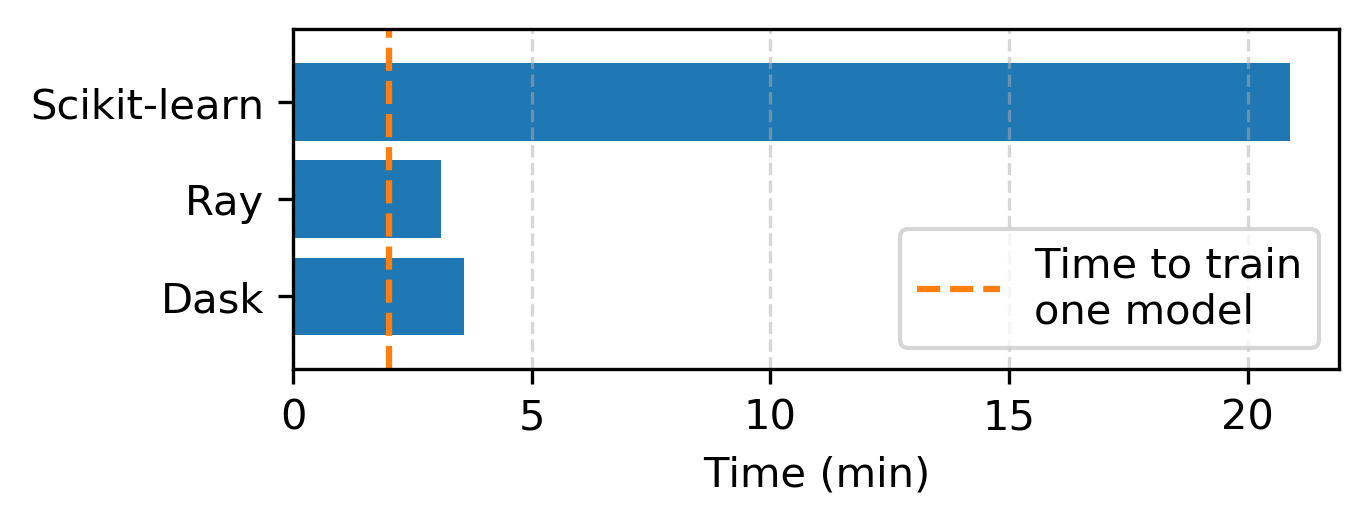
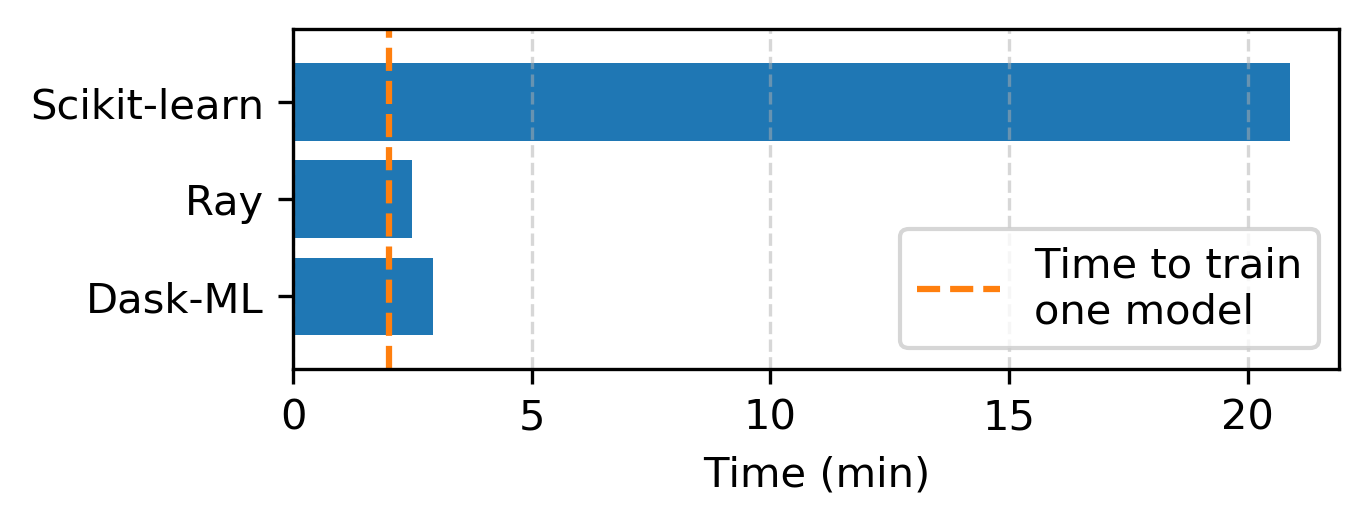
Rerun benchmark and edits

Changed region(s): [[0.0614, 0.5181, 0.1841, 0.6095], [0.2761, 0.3048, 0.3375, 0.4571], [0.3068, 0.4876, 0.3375, 0.64]]

diff --git a/_posts/2020-07-12-ray-tune.md b/_posts/2020-07-12-ray-tune.md
@@ -116,10 +116,10 @@ in a Scikit-Learn interface.*
 
 *Dask-ML and Ray both offer "modern hyperparameter tuning techniques."*
 
-The state-of-the-art in hyperparameter optimization is currently the popular
-algorithm called "[Hyperband][hyperband-paper]." Hyperband saves on total
-computation cost via a principled early stopping scheme; past that, it's the
-same as Scikit-Learn's popular `RandomizedSearchCV`.
+The state-of-the-art in hyperparameter optimization is currently
+"[Hyperband][hyperband-paper]." Hyperband saves on total computation cost via a
+*principled* early stopping scheme; past that, it's the same as Scikit-Learn's
+popular `RandomizedSearchCV`.
 
 Hyperband *works.* As such, it's very popular. After the introduction of
 Hyperband in 2016 by Li et. al, [the paper][hyperband-paper] has been cited
@@ -169,6 +169,16 @@ that rely on similar implementations, and Dask-ML's implementation also has a
 [blippar]:https://arxiv.org/pdf/1801.01596.pdf
 [BOHB paper]:http://proceedings.mlr.press/v80/falkner18a/falkner18a.pdf
 [n-grams]:https://en.wikipedia.org/wiki/N-gram
+[^smac]:SMAC is described in "[Sequential Model-Based Optimization forGeneral Algorithm Configuration][SMAC-paper]," and is available [in AutoML][SMAC-automl].
+[^spearmint]:Spearmint is described in "[Practical Bayesian Optimization of MachineLearning Algorithms][pbo]," and is available in [HIPS/spearmint].
+[^tpe]:TPE is described in Section 4 of "[Algorithms for Hyperparameter Optimization][aho]," and is available [through Hyperopt][hyperopt].
+[SMAC-paper]:https://www.cs.ubc.ca/~hutter/papers/10-TR-SMAC.pdf
+[SMAC-automl]:https://www.automl.org/automated-algorithm-design/algorithm-configuration/smac/
+[spearmint]:https://github.com/HIPS/Spearmint
+[aho]:http://papers.nips.cc/paper/4443-algorithms-for-hyper-parameter-optimization.pdf
+[pbo]:https://papers.nips.cc/paper/4522-practical-bayesian-optimization-of-machine-learning-algorithms.pdf
+[HIPS/spearmint]:https://github.com/HIPS/Spearmint
+[hyperopt]:http://hyperopt.github.io/hyperopt/
 
 [^stopping]:Hyperband's theory answers "how many models should be stopped?" and "when should they be stopped?"
 [nni]:https://nni.readthedocs.io/en/latest/Tuner/HyperbandAdvisor.html
@@ -203,6 +213,7 @@ support in Dask-ML's model selection and Ray's tune-sklearn:
 
 <sup>\* Only for [the models that implement `partial_fit`][skl-il].</sup><br>
 <sup>\*\* Shortly; the Dask developers are working on [dask-ml#713][713].</sup>
+
 
 [skl-il]:https://scikit-learn.org/stable/modules/computing.html#incremental-learning
 [Scikit-Learn]:https://scikit-learn.org/
@@ -262,7 +273,7 @@ workers for a particular search.
 
 ### Speed
 
-*Dask-ML and Ray are much faster than Scikit-Learn.*
+*Both Dask-ML and Ray are much faster than Scikit-Learn.*
 
 Ray's tune-sklearn runs some benchmarks in [the introduction][1] with the
 `GridSearchCV` class found Scikit-Learn and Dask-ML. A more fair benchmark
@@ -290,30 +301,32 @@ seconds. Here's how long each library takes to complete this search:
 <img src="/images/2020-model-selection/n_workers=8.png" width="450px"
  />
 
-Clearly, Ray and Dask-ML offer similar performance for 8 workers when compared
-with Scikit-Learn. To Ray's credit, their implementation is about 15% faster
-with 8 workers. We suspect that Ray performs better in this case because they
-implement an asynchronous variant of Hyperband.
+Notably, we didn't improve the Dask-ML codebase for this benchmark, and ran the
+code as it's been for the last year (though it's possible that other artifacts
+from [biased benchmarks][bb] crept into this benchmark).
 
-We should investigate this difference between Dask and Ray, and how each
-balances the tradeoffs (number FLOPs and time-to-solution). Notably,
-we didn't improve the Dask-ML codebase for this benchmark, and ran the code
-as it's been for the last year. Still, some other artifacts from [biased
-benchmarks][bb] might have crept into this benchmark.
+Clearly, Ray and Dask-ML offer similar performance for 8 workers when compared
+with Scikit-Learn. To Ray's credit, their implementation is ~15% faster than
+Dask-ML's with 8 workers. We suspect that this performance boost comes from the
+fact that Ray implements an asynchronous variant of Hyperband. We should
+investigate this difference between Dask and Ray, and how each balances the
+tradeoffs (number FLOPs and time-to-solution). This will vary with the number
+of workers: the asynchronous variant of Hyperband is has no benefit if used
+with a single worker.
+
+Dask-ML reaches scores quickly in serial environments, or when the number of
+workers is small.[^omit] Dask-ML prioritizes fitting high scoring models: if
+there are 100 models to fit and only 4 workers available, Dask-ML selects the
+models that have the highest score. This is most relevant in serial
+environments;[^priority] see "[Better and faster hyperparameter optimization
+with Dask][db-bf]" for benchmarks. This feature is omitted from this benchmark,
+and it appears Ray's tune-sklearn does not support this method of assigning
+priority.
+
+[^omit]:It's omitted from this benchmark; it's not relevant and is still under review.
 
 [bb]:http://matthewrocklin.com/blog/work/2017/03/09/biased-benchmarks
 [biased-benchmarks]:http://matthewrocklin.com/blog/work/2017/03/09/biased-benchmarks
-
-This benchmark is only concerned with showing the time to complete
-`search.fit`. It ignores some relevant facts:
-
-* Ray's implementation performs more floating point operations because it
-  implements the asynchronous variant of Hyperband.
-* Dask-ML's model selection framework prioritizes fitting high scoring models,
-  which is especially relevant in the serial context.[^priority] If there are
-  100 models to fit and only 8 workers available, Dask-ML selects the models
-  that have the highest score. See "[Better and faster hyperparameter
-  optimization with Dask][db-bf]" for benchmarks.
 
 [^priority]:Because priority is meaningless if there are an infinite number of workers.
 
@@ -412,7 +425,7 @@ split = ShuffleSplit(test_size=0.2, n_splits=1)
 kwargs = dict(cv=split, refit=False)
 
 search = RandomizedSearchCV(model, params, n_jobs=8, n_iter=n_params, **kwargs)
-search.fit(X_train, y_train)  # 10.44 minutes
+search.fit(X_train, y_train)  # 20.88 minutes
 
 from dask_ml.model_selection import HyperbandSearchCV
 dask_search = HyperbandSearchCV(
@@ -424,8 +437,8 @@ ray_search = TuneSearchCV(
     model, params, n_iter=n_params, max_iters=max_iter, early_stopping=True, **kwargs
 )
 
-dask_search.fit(X_train, y_train)  # 1.79 minutes
-ray_search.fit(X_train, y_train)  # 1.55 minutes
+dask_search.fit(X_train, y_train)  # 2.93 minutes
+ray_search.fit(X_train, y_train)  # 2.49 minutes
 ```
 
 ### Full example usage
